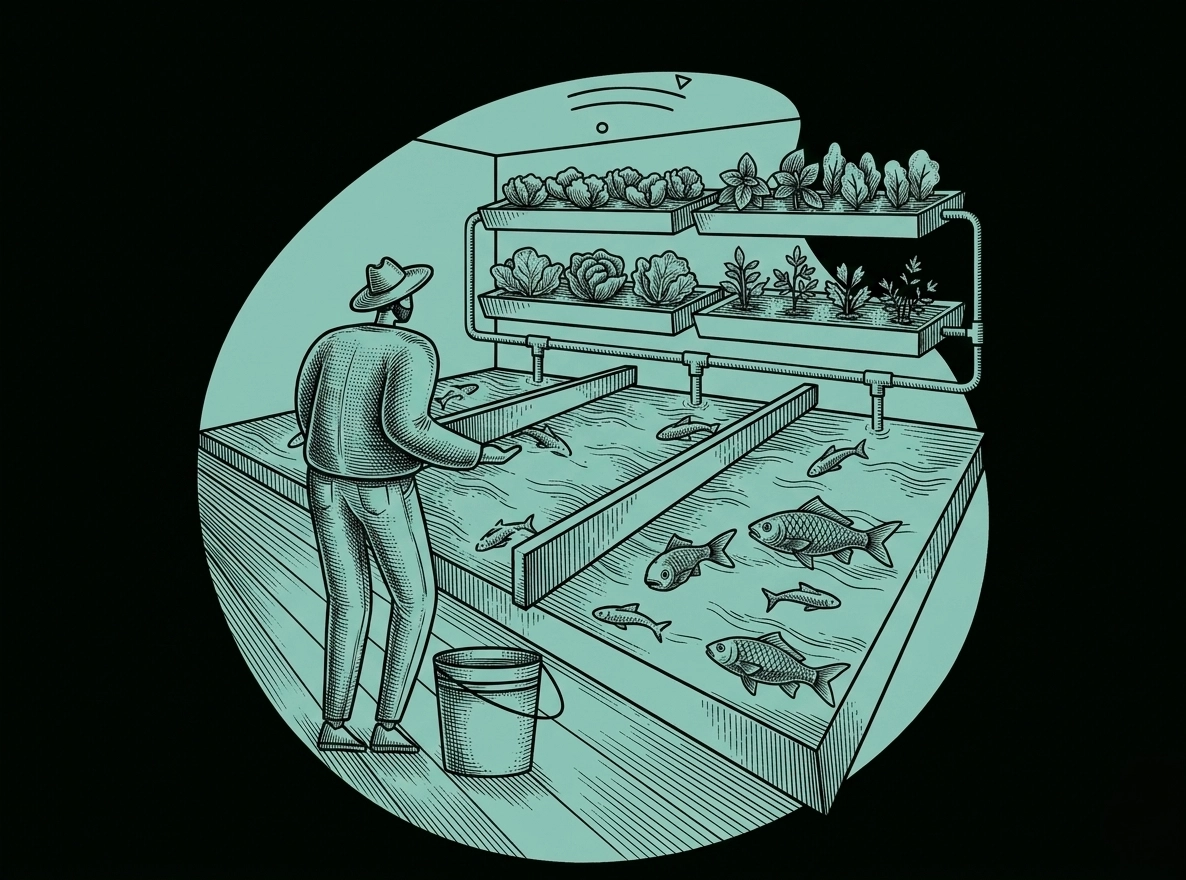
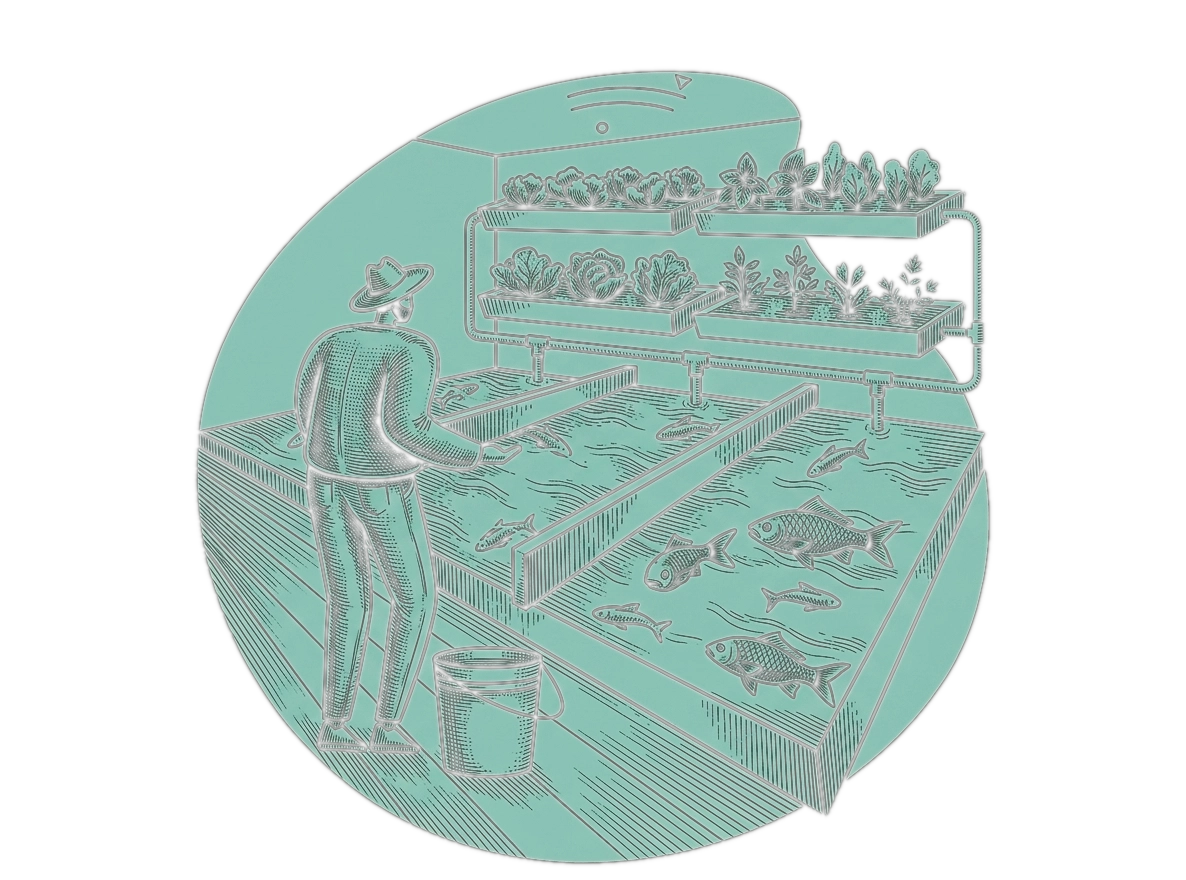
fix(landing): detour aquaponie PNG black background to real alpha
The black square background of the PNG was masking the filigrane (the CSS
radial mask only cut the corners). Now the black is keyed out to real
transparency via ffmpeg lumakey + gblur on the alpha channel — the
illustration incrusts directly into the filigrane, no frame. Drops the
redundant CSS mask-image and bumps the display size 480px -> 580px.

https://claude.ai/code/session_016AoH729BXisXZjF4CWP6X9

diff --git a/src/components/landing/illustrations/AquaponieImage.tsx b/src/components/landing/illustrations/AquaponieImage.tsx
@@ -1,14 +1,9 @@
 export function AquaponieImage({ className = "" }: { className?: string }) {
+  // Le PNG est détouré en alpha réel (fond noir → transparent, bords floutés
+  // via ffmpeg lumakey + gblur planes=8) → s'incruste directement dans le
+  // filigrane, sans cadre. Pas de mask-image CSS (le PNG porte son alpha).
   return (
-    <div
-      className={className}
-      style={{
-        maskImage:
-          "radial-gradient(ellipse 80% 80% at 50% 50%, black 55%, transparent 100%)",
-        WebkitMaskImage:
-          "radial-gradient(ellipse 80% 80% at 50% 50%, black 55%, transparent 100%)",
-      }}
-    >
+    <div className={className}>
       <img
         src="/aquaponie-scene.png"
         alt="Scène aquaponie — bassin à poissons alimentant des cultures hors-sol, nettoyage circulaire"

diff --git a/src/components/landing/sections.tsx b/src/components/landing/sections.tsx
@@ -315,7 +315,7 @@ export function Vision() {
             pour s'incruster dans le filigrane. -mx-5 mobile : annule le padding du
             container pour un rendu pleine largeur. */}
         <div className="rv -mx-5 mt-8 sm:mx-0" data-aqua-section>
-          <AquaponieImage className="mx-auto w-full max-w-[480px]" />
+          <AquaponieImage className="mx-auto w-full max-w-[580px]" />
         </div>
 
         <div className="mt-8 grid gap-6 sm:grid-cols-3">
